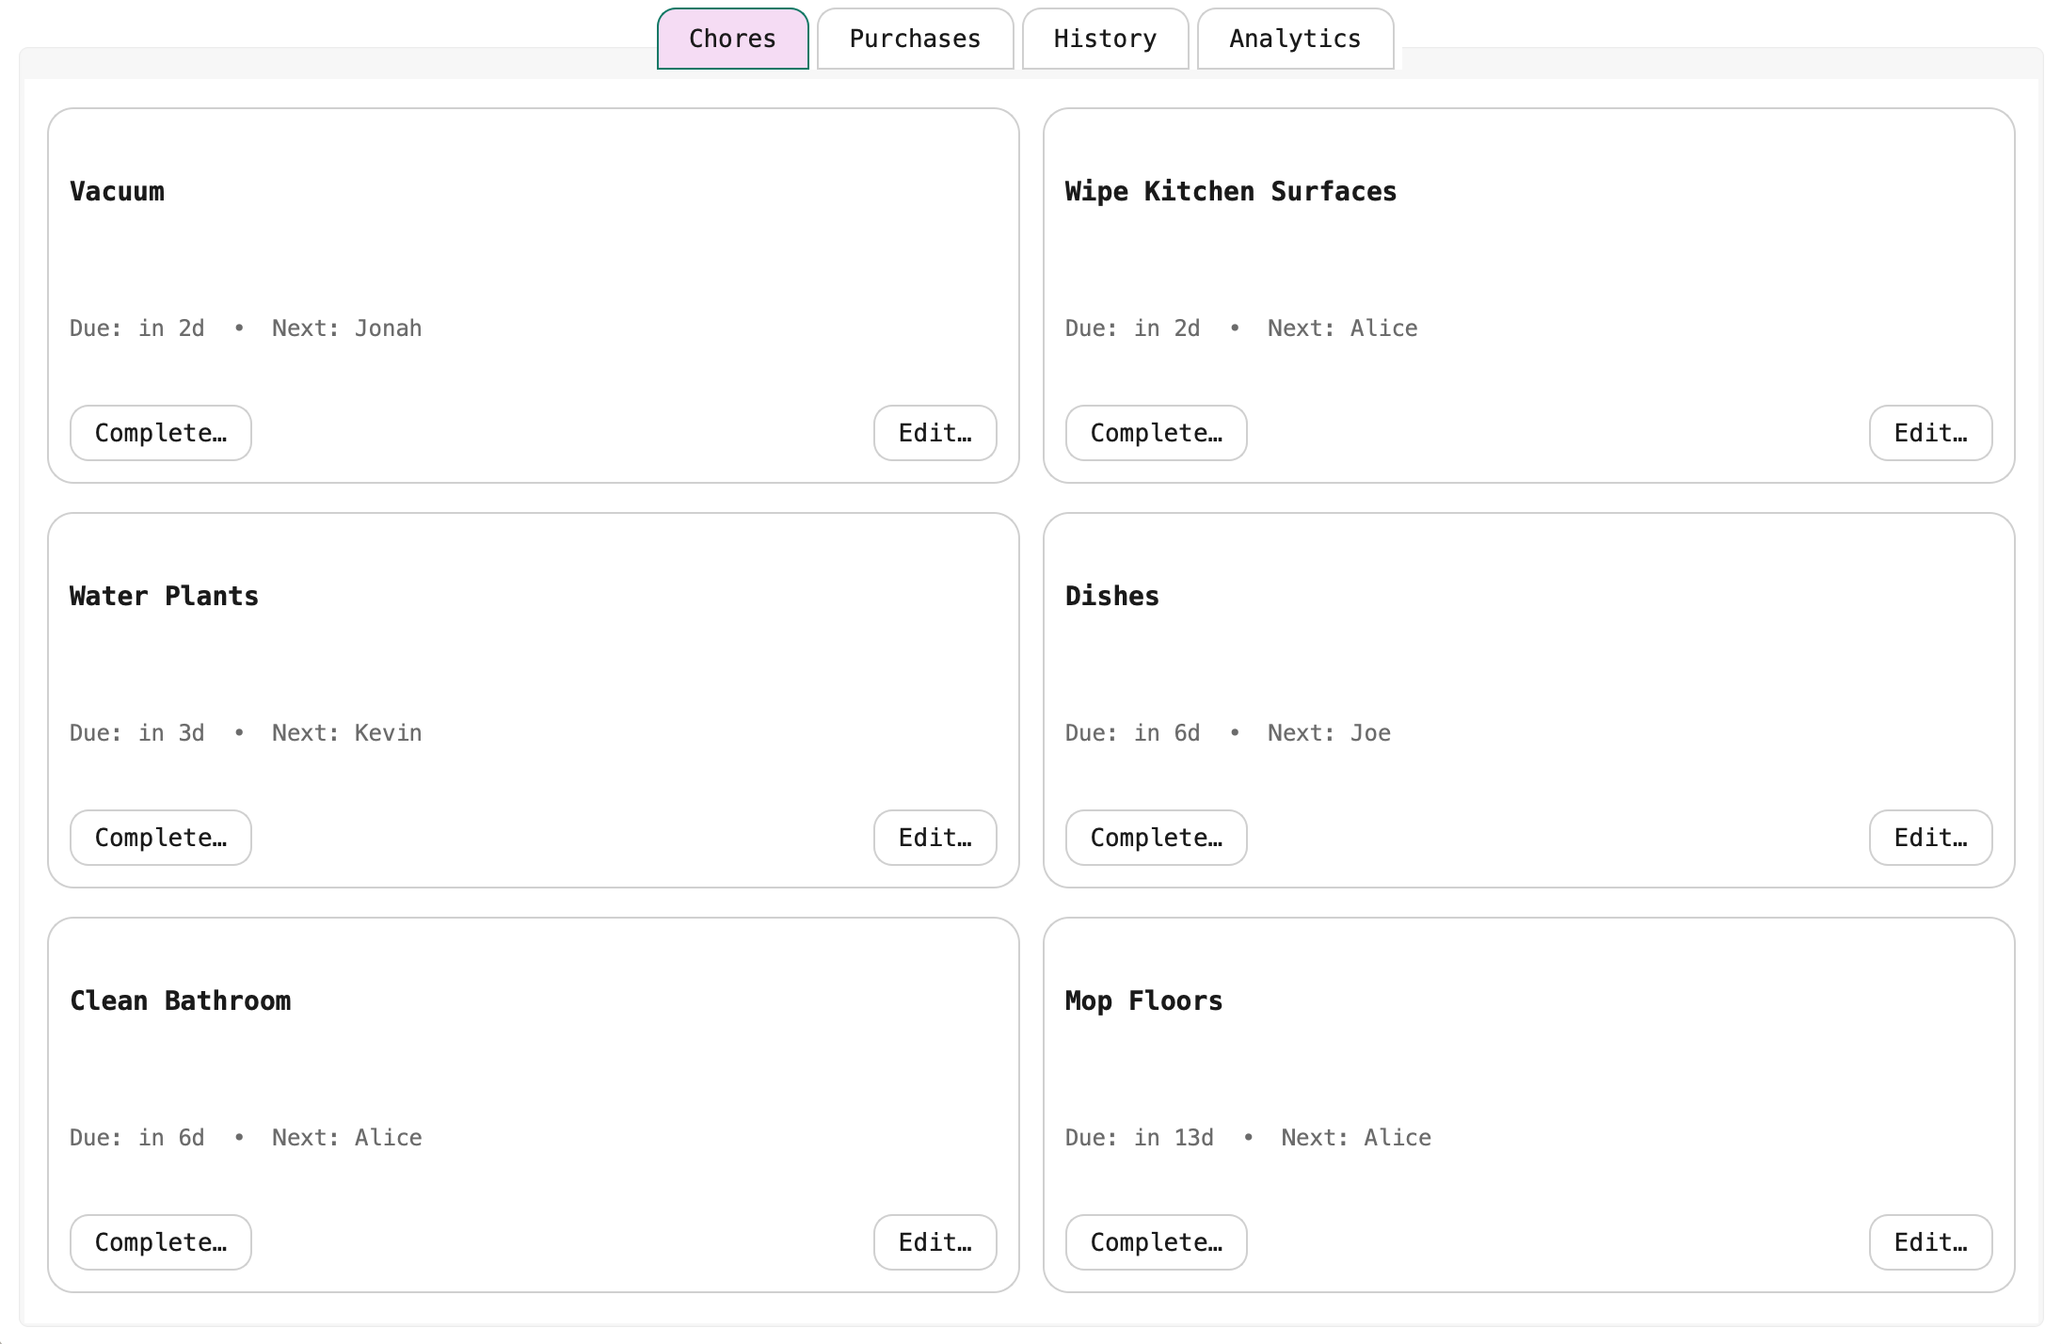
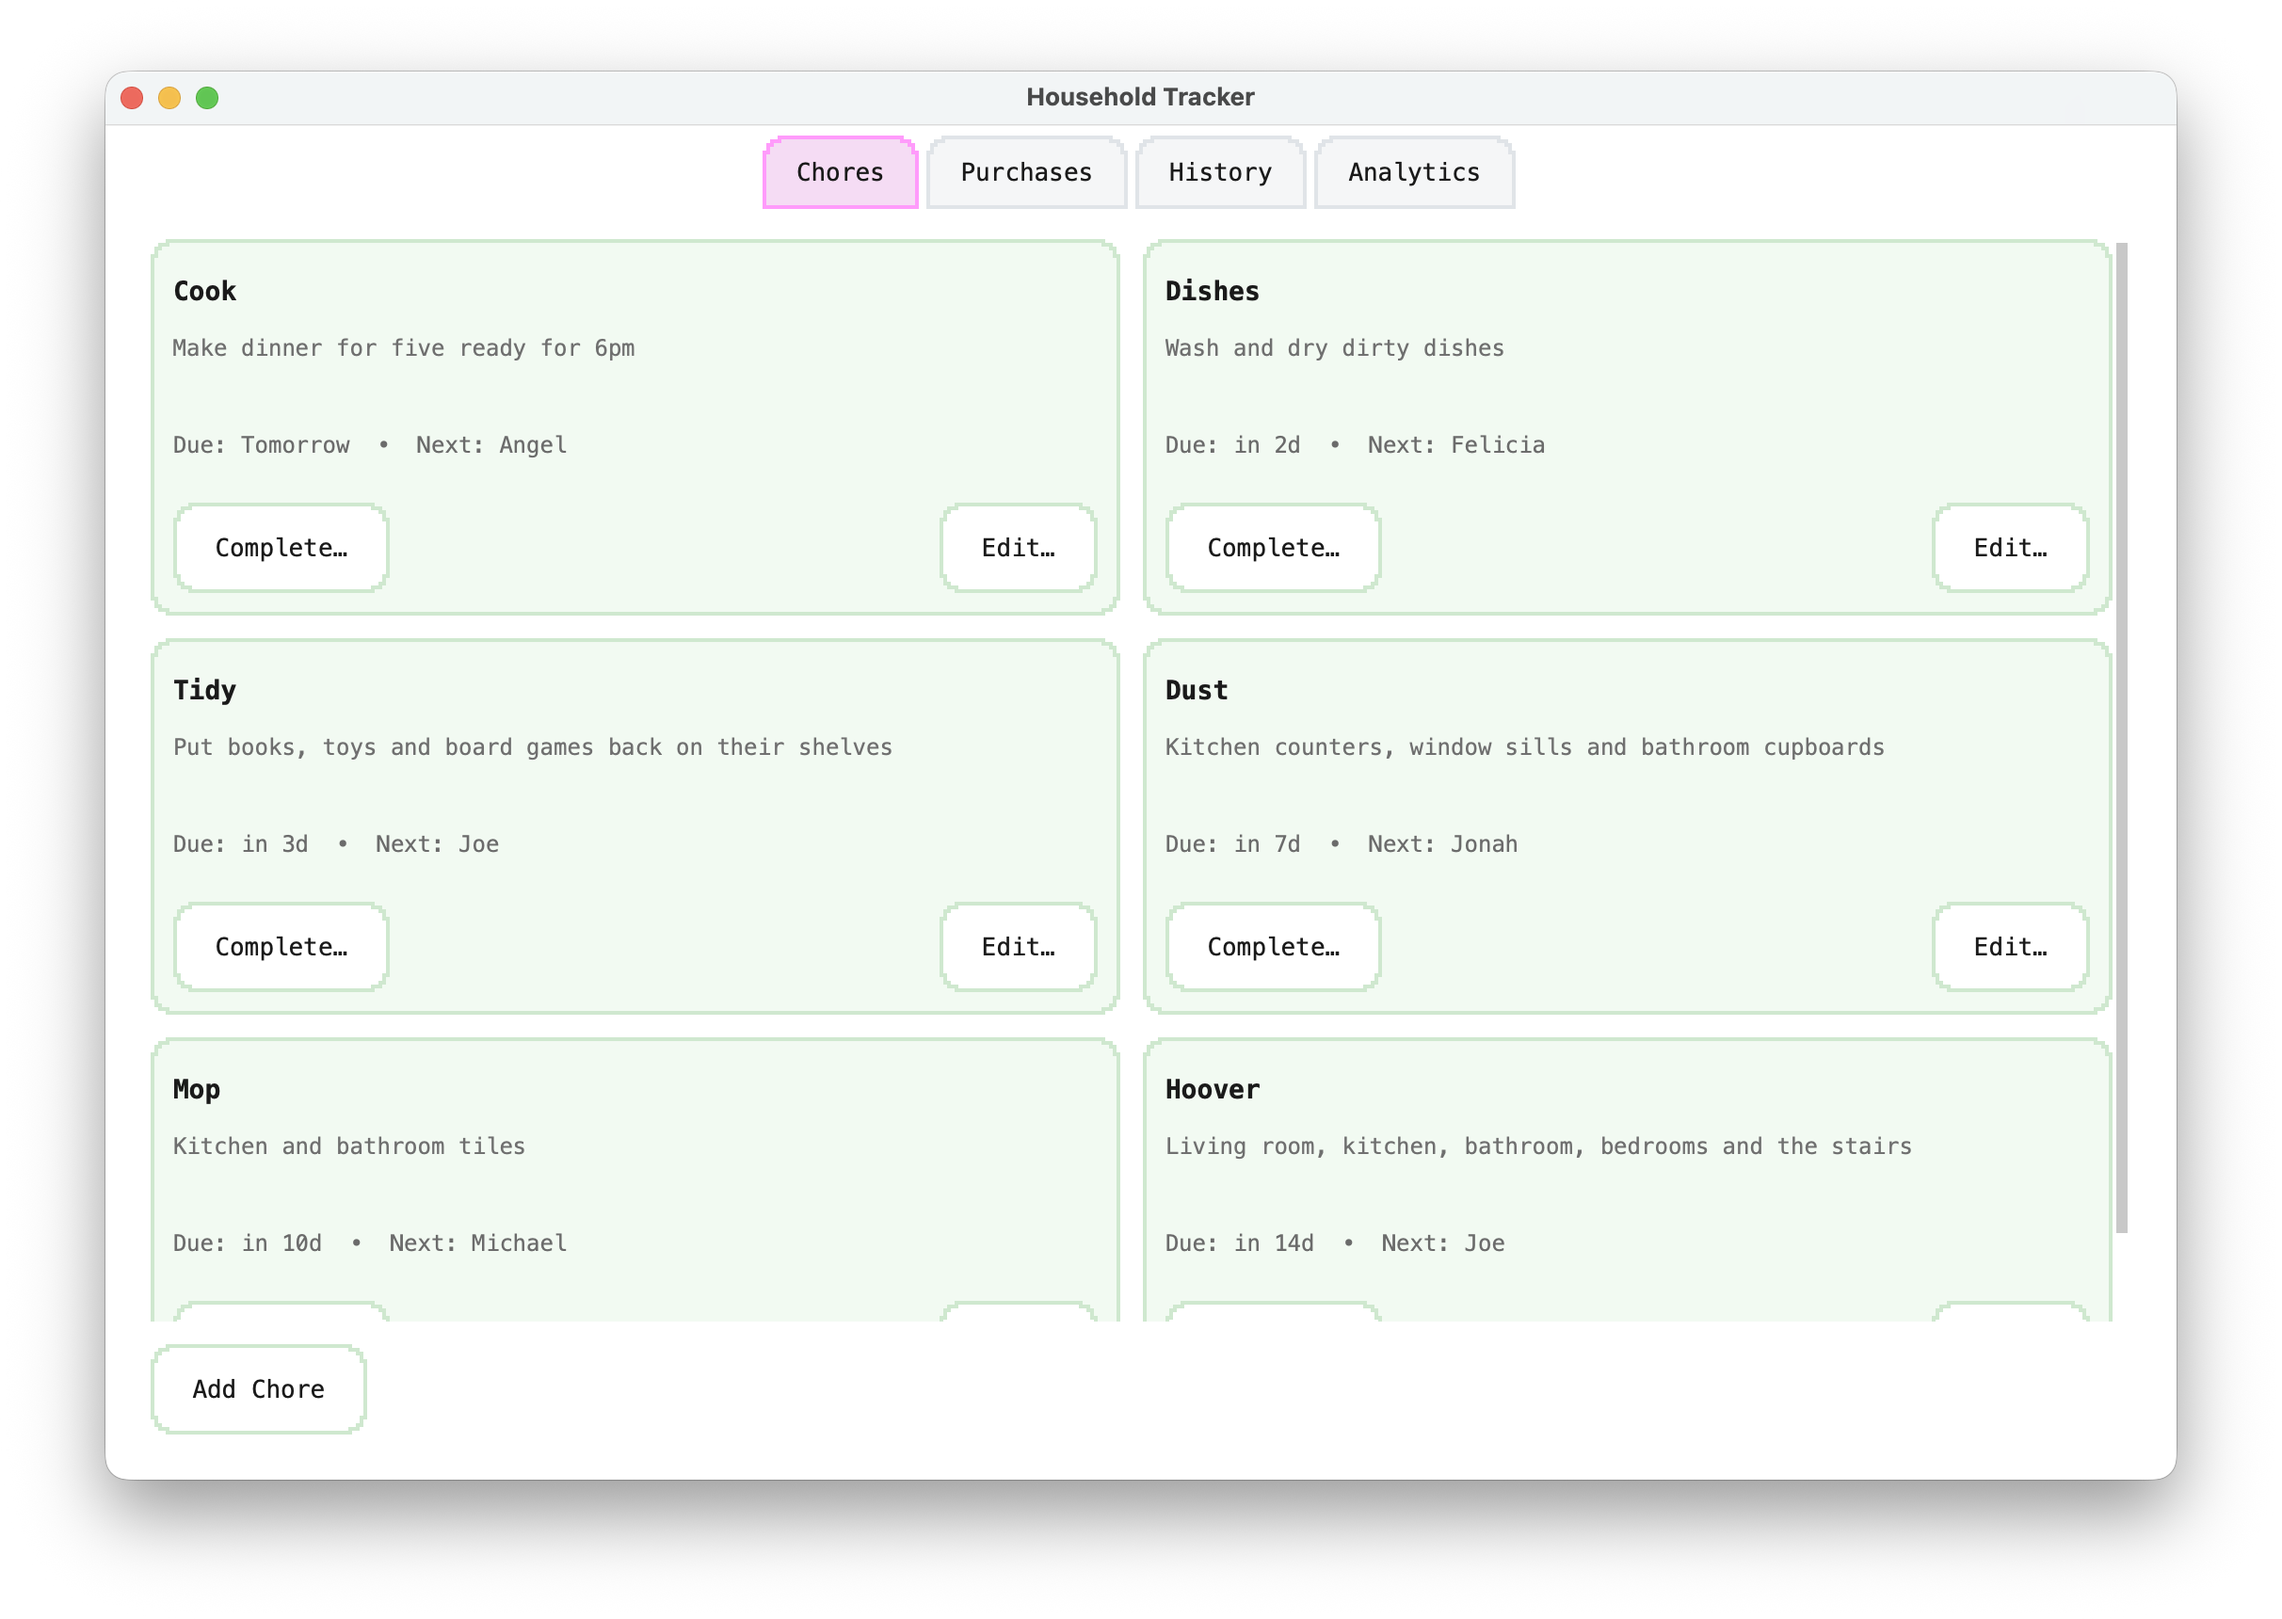
Updated README screenshots and feature list

diff --git a/README.md b/README.md
@@ -29,32 +29,61 @@ The app runs **fully offline**, stores data locally, and provides **analytics da
 
 ## Features Implemented So Far
 
-- **Core skeleton app**  
-  - Main window with tabs (Chores, Purchases, History, Analytics)  
-  - Light & dark QSS themes with rounded modern design  
+- **Core app & theming**
+  - Main window with tabs: **Chores**, **Purchases**, **History**, (Analytics placeholder)
+  - **Light/Dark** QSS themes with pixel 9-slice cards/buttons; theme persists via QSettings
+  - Quick toggle (Shift+L) and menu: View → Appearance
 
-- **Database foundation**  
-  - SQLite + SQLAlchemy models for Users, Chores, Purchases, and completions  
-  - Local data storage in `~/Library/Application Support/HouseholdTracker/`  
+- **Database & repos**
+  - SQLite + SQLAlchemy 2.0 models: `User`, `Chore`, `ChoreCompletion`, `Item`, `PurchaseRecord`
+  - Clean repo layer (`src/db/repo/*`) with eager-loading to avoid N+1 queries
+  - UUID primary keys; money stored in **cents** for correctness
 
-- **User management (new)**  
-  - Added **Users dialog** with table view  
-  - Integrated with DB (list users, toggle active, add new users, delete users)  
-  - Styled table: green headers, zebra rows, consistent selection colors
+- **Users management**
+  - **Users dialog**: list, add, toggle active, hard delete (with safe reassignment/nulling)
+  - Deactivation removes users from rotations; history retained
 
-- **Dev utilities**  
-  - Seeding scripts for test users, chores, and purchases  
-  - Repo structure with clean separation (`src/db/repo`, `src/views`, `src/services`)  
+- **Chores**
+  - **Chore board**: scrollable 2-column grid of cards (title, description, due, next assignee)
+  - Add/Edit dialogs; **Complete Chore** dialog (duration + comments)
+  - Global alphabetical **rotation** of active users; due dates bump via `bump_due`
+  - Humanized due text (“Today / Tomorrow / in 3d / Overdue by 2d”)
+
+- **Purchases**
+  - **Purchases board**: 2-column cards (restock due, next buyer)
+  - Add/Edit item dialogs; **Log Purchase** dialog (qty, price, comments)
+  - Rotation advances on purchase; next restock date bumped
+  - **Purchases History** tab: table (Item • Buyer • Qty • Total • Date • Comments) with filters  
+    (Item, Buyer, Last 30/90 days) and default **Date desc** sorting
+
+- **Dev utilities**
+  - Simple seed scripts under `src/dev` for adding users/items/chores/purchases
+  - Paths centralized in `src/services/paths.py` (`~/Library/Application Support/HouseholdTracker`)
 
 ---
 
 ## Upcoming Features
 
-- Chores board with scrollable widgets and logging  
-- Purchases board with logging and analytics  
-- Unified history timeline with filtering/search  
-- Analytics dashboards (pie charts + leaderboards)  
-- Gamification layer (points, streaks, rewards)  
+- **History enhancements**
+  - Chores history (toggle alongside Purchases)
+  - CSV export of filtered history
+
+- **Analytics (MVP)**
+  - Total spend per user & per item
+  - Chore time leaderboards / completion streaks
+  - Simple charts (matplotlib / pyqtgraph / Qt Charts)
+
+- **Rotations & data model**
+  - Per-entity rotations (item/chore-specific order vs global)
+  - Optional soft-delete & name snapshots for cleaner history
+
+- **Settings & tooling**
+  - App Settings panel (currency, date/time format)
+  - Data export/import (JSON/CSV)
+  - Alembic migrations as the schema stabilizes
+
+- **Packaging**
+  - Polished macOS `.app` bundle (codesign/notarize) with PyInstaller/Briefcase
 
 ---
 
@@ -63,7 +92,31 @@ The app runs **fully offline**, stores data locally, and provides **analytics da
   <img src="docs/screenshot_chore_board.png" width="600" alt="Main Window screenshot">
 </p>
 <p align="center">
+  <img src="docs/screenshot_add_chore.png" width="600" alt="Main Window screenshot">
+</p>
+<p align="center">
+  <img src="docs/screenshot_complete_chore.png" width="600" alt="Main Window screenshot">
+</p>
+<p align="center">
+  <img src="docs/screenshot_edit_chore.png" width="600" alt="Main Window screenshot">
+</p>
+<p align="center">
+  <img src="docs/screenshot_purchase_board.png" width="600" alt="Main Window screenshot">
+</p>
+<p align="center">
+  <img src="docs/screenshot_add_item.png" width="600" alt="Main Window screenshot">
+</p>
+<p align="center">
+  <img src="docs/screenshot_log_purchase.png" width="600" alt="Main Window screenshot">
+</p>
+<p align="center">
+  <img src="docs/screenshot_edit_item.png" width="600" alt="Main Window screenshot">
+</p>
+<p align="center">
   <img src="docs/screenshot_user_settings.png" width="600" alt="Main Window screenshot">
+</p>
+<p align="center">
+  <img src="docs/screenshot_add_user.png" width="600" alt="Main Window screenshot">
 </p>
 
 ---
@@ -112,7 +165,8 @@ HouseholdTracker/
 │   ├── db/                 # SQLAlchemy models & session setup
 │   ├── services/           # Paths, helpers, business logic
 │   └── styles/             # QSS stylesheets (light/dark themes)
-├── dev/                    # Dev-only scripts (test seeds, etc.)
+│   └── assets/             # Custom icons and ui
+│   └── dev/                # Dev-only scripts (test seeds, etc.)
 ├── docs/                   # Screenshots, diagrams
 └── requirements.txt
 
